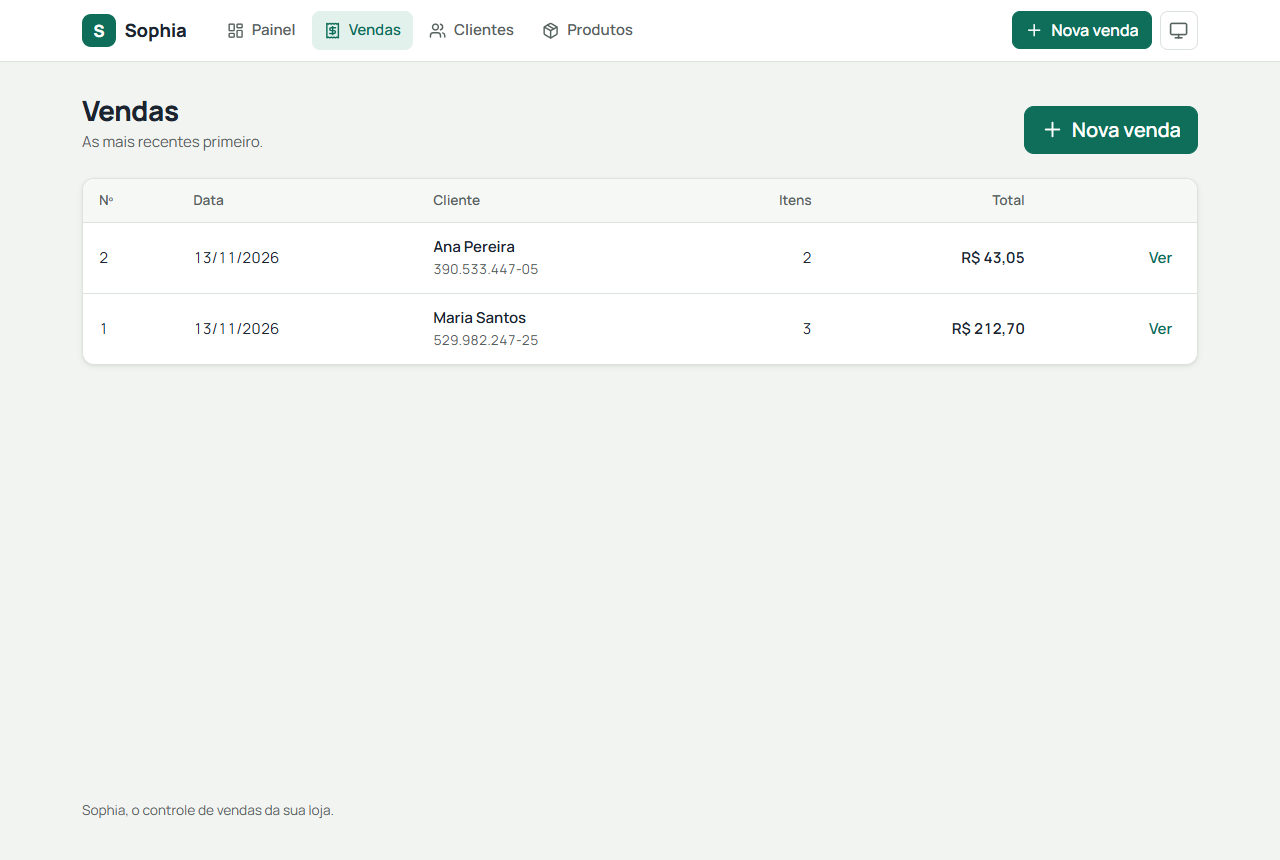
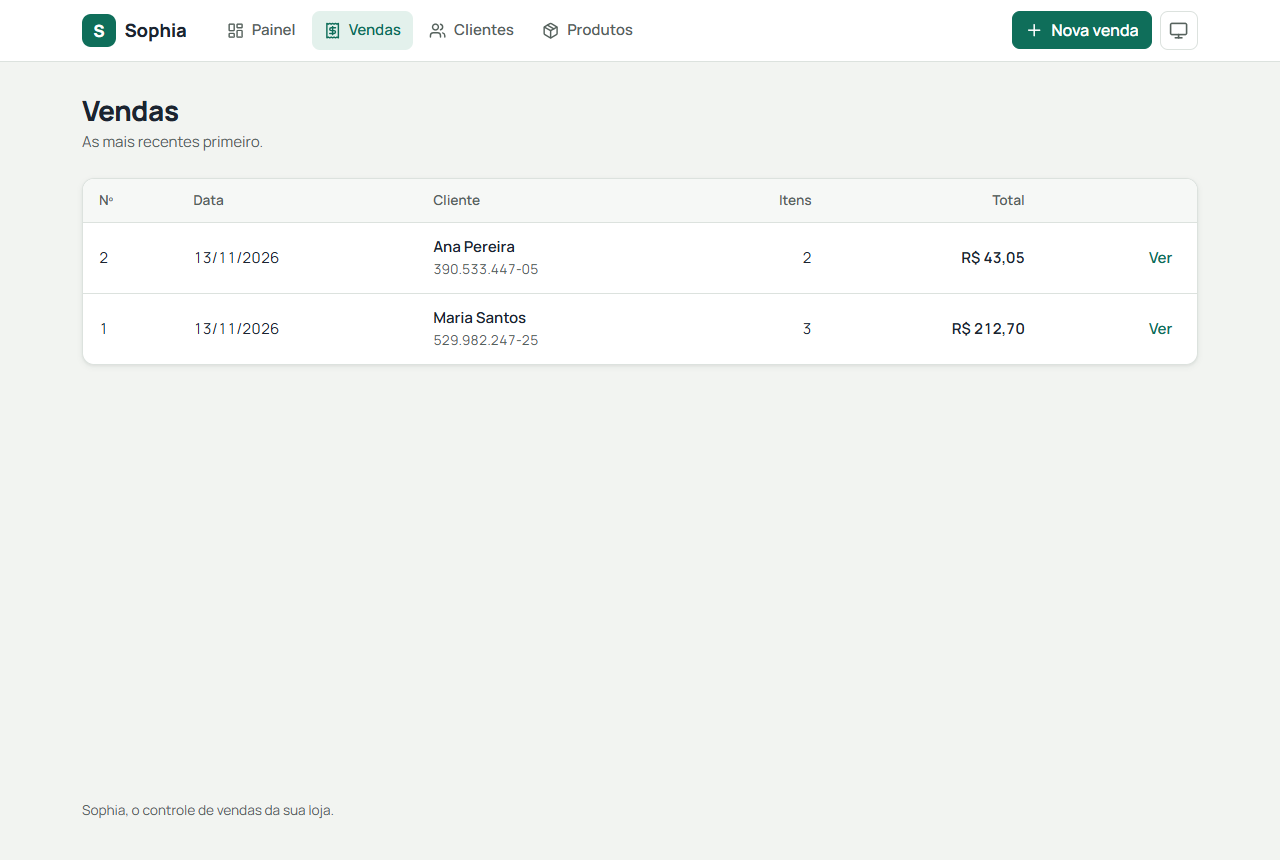
Um só botão de nova venda por tela: fica o do topo

Changed region(s): [[0.7812, 0.1209, 0.9375, 0.1814]]

diff --git a/tests/Sophia.E2E/TelaDeVendasTests.cs b/tests/Sophia.E2E/TelaDeVendasTests.cs
@@ -29,10 +29,20 @@ public sealed class TelaDeVendasTests(AplicacaoEmExecucao aplicacao) : IAsyncLif
     public async Task A_pagina_inicial_leva_a_nova_venda_com_a_data_de_hoje()
     {
         await _pagina.GotoAsync("/");
-        await _pagina.GetByRole(AriaRole.Link, new() { Name = "Nova venda" }).First.ClickAsync();
+        await _pagina.GetByRole(AriaRole.Link, new() { Name = "Nova venda", Exact = true }).ClickAsync();
 
         var hoje = new RelogioDoSistema(TimeProvider.System, TimeZoneInfo.FindSystemTimeZoneById("America/Sao_Paulo")).Hoje;
         await Expect(_pagina.GetByLabel("Data da venda")).ToHaveValueAsync(hoje.ToString("yyyy-MM-dd"));
+    }
+
+    [Theory]
+    [InlineData("/")]
+    [InlineData("/Vendas")]
+    public async Task A_tela_tem_um_so_botao_de_nova_venda(string endereco)
+    {
+        await _pagina.GotoAsync(endereco);
+
+        await Expect(_pagina.GetByRole(AriaRole.Link, new() { Name = "Nova venda", Exact = true })).ToHaveCountAsync(1);
     }
 
     [Fact]
@@ -58,6 +68,7 @@ public sealed class TelaDeVendasTests(AplicacaoEmExecucao aplicacao) : IAsyncLif
         await Expect(_pagina.GetByRole(AriaRole.Row).Filter(new() { HasText = "Caneta azul" })).ToContainTextAsync("R$ 25,00");
         await Expect(_pagina.GetByRole(AriaRole.Row).Filter(new() { HasText = "Caderno 96 folhas" })).ToContainTextAsync("R$ 37,80");
         await Expect(_pagina.GetByTestId("total-da-venda")).ToHaveTextAsync("R$ 62,80");
+        await Expect(_pagina.GetByRole(AriaRole.Link, new() { Name = "Nova venda", Exact = true })).ToHaveCountAsync(1);
     }
 
     [Fact]

diff --git a/docs/guia-do-usuario.md b/docs/guia-do-usuario.md
@@ -136,7 +136,7 @@ total da venda.
 ![Detalhe da venda](imagens/10-detalhe-da-venda.png)
 
 - **Imprimir** gera uma versão da venda própria para papel;
-- **Nova venda** abre o caixa vazio para o próximo cliente.
+- o botão **Nova venda**, no topo, abre o caixa vazio para o próximo cliente.
 
 Os totais são sempre recalculados pelo sistema na gravação: o que fica registrado é a conta
 feita a partir dos itens.
